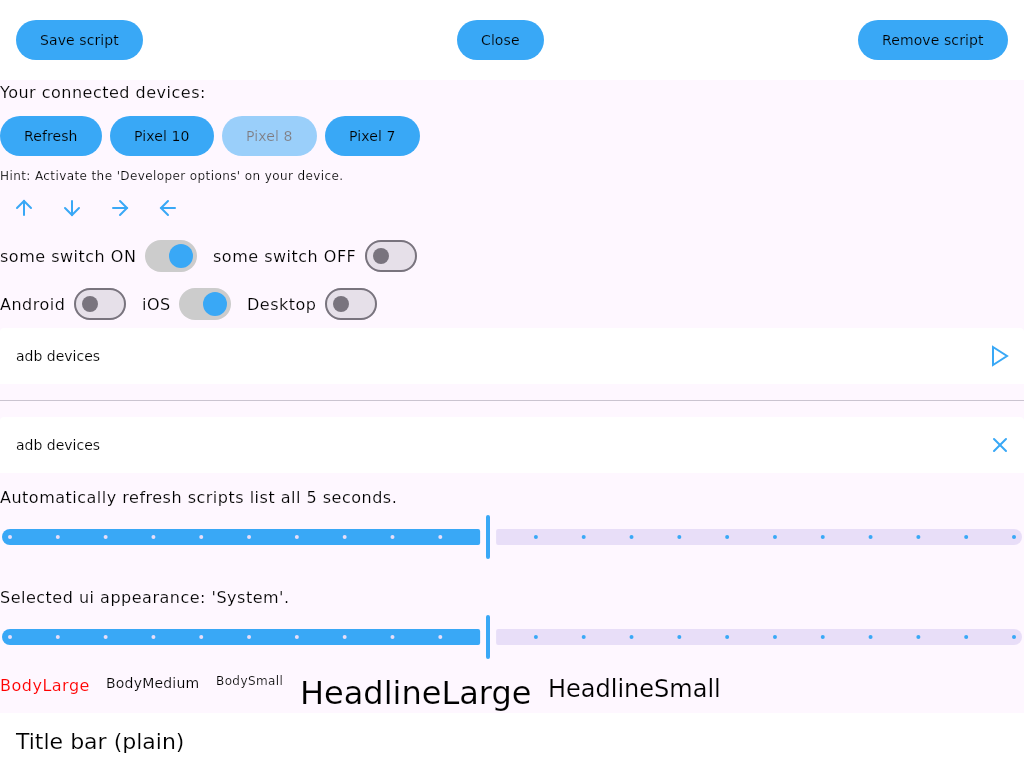
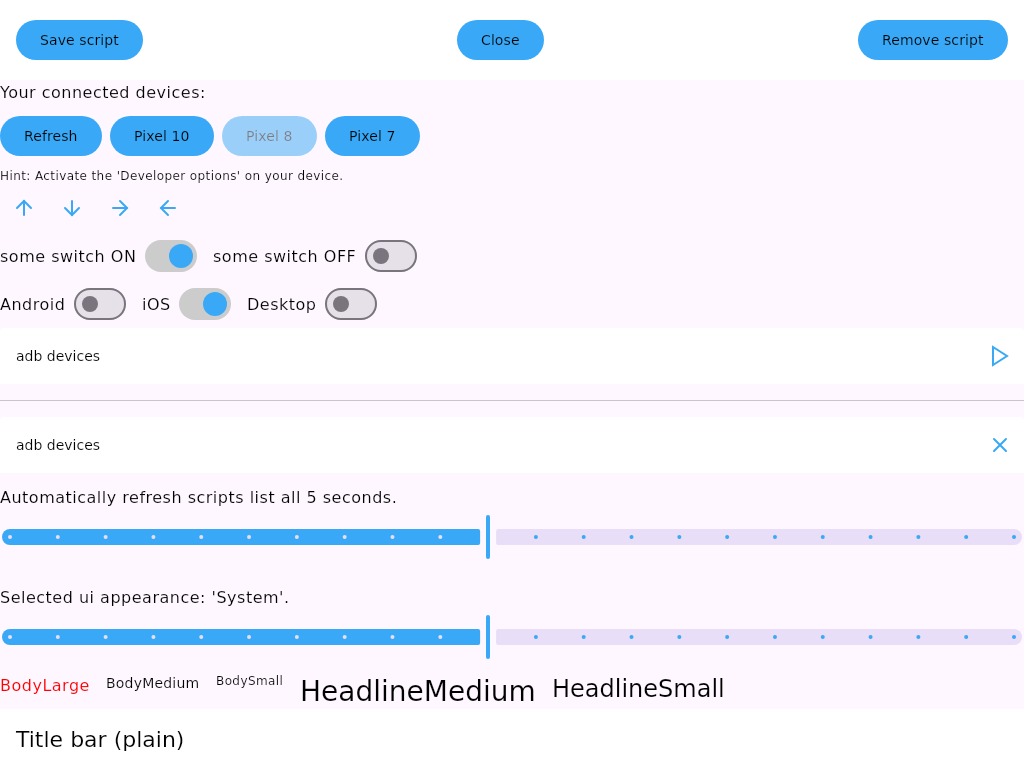
Fix/Improve

Changed region(s): [[0.2812, 0.875, 0.7188, 0.9375], [0.0312, 0.9375, 0.1562, 1.0]]

diff --git a/sharedCode/src/commonTest/kotlin/de/joz/appcommander/ui/welcome/WelcomeScreenTest.kt b/sharedCode/src/commonTest/kotlin/de/joz/appcommander/ui/welcome/WelcomeScreenTest.kt
@@ -45,7 +45,7 @@ class WelcomeScreenTest {
 
 			onNodeWithText("Welcome to \n'App-Commander'.").assertIsDisplayed()
 			onNodeWithText(
-				"Your programmable multi-device execution helper. Execute your custom scripts for your apps on multiple devices.",
+				"Your programmable multi-device execution helper. Execute your scripts for your apps on multiple devices.",
 			).assertIsDisplayed()
 			onNodeWithText("Let's go!").assertIsDisplayed().assertHasClickAction()
 			onNodeWithText("Do not show welcome screen again.").assertIsDisplayed()